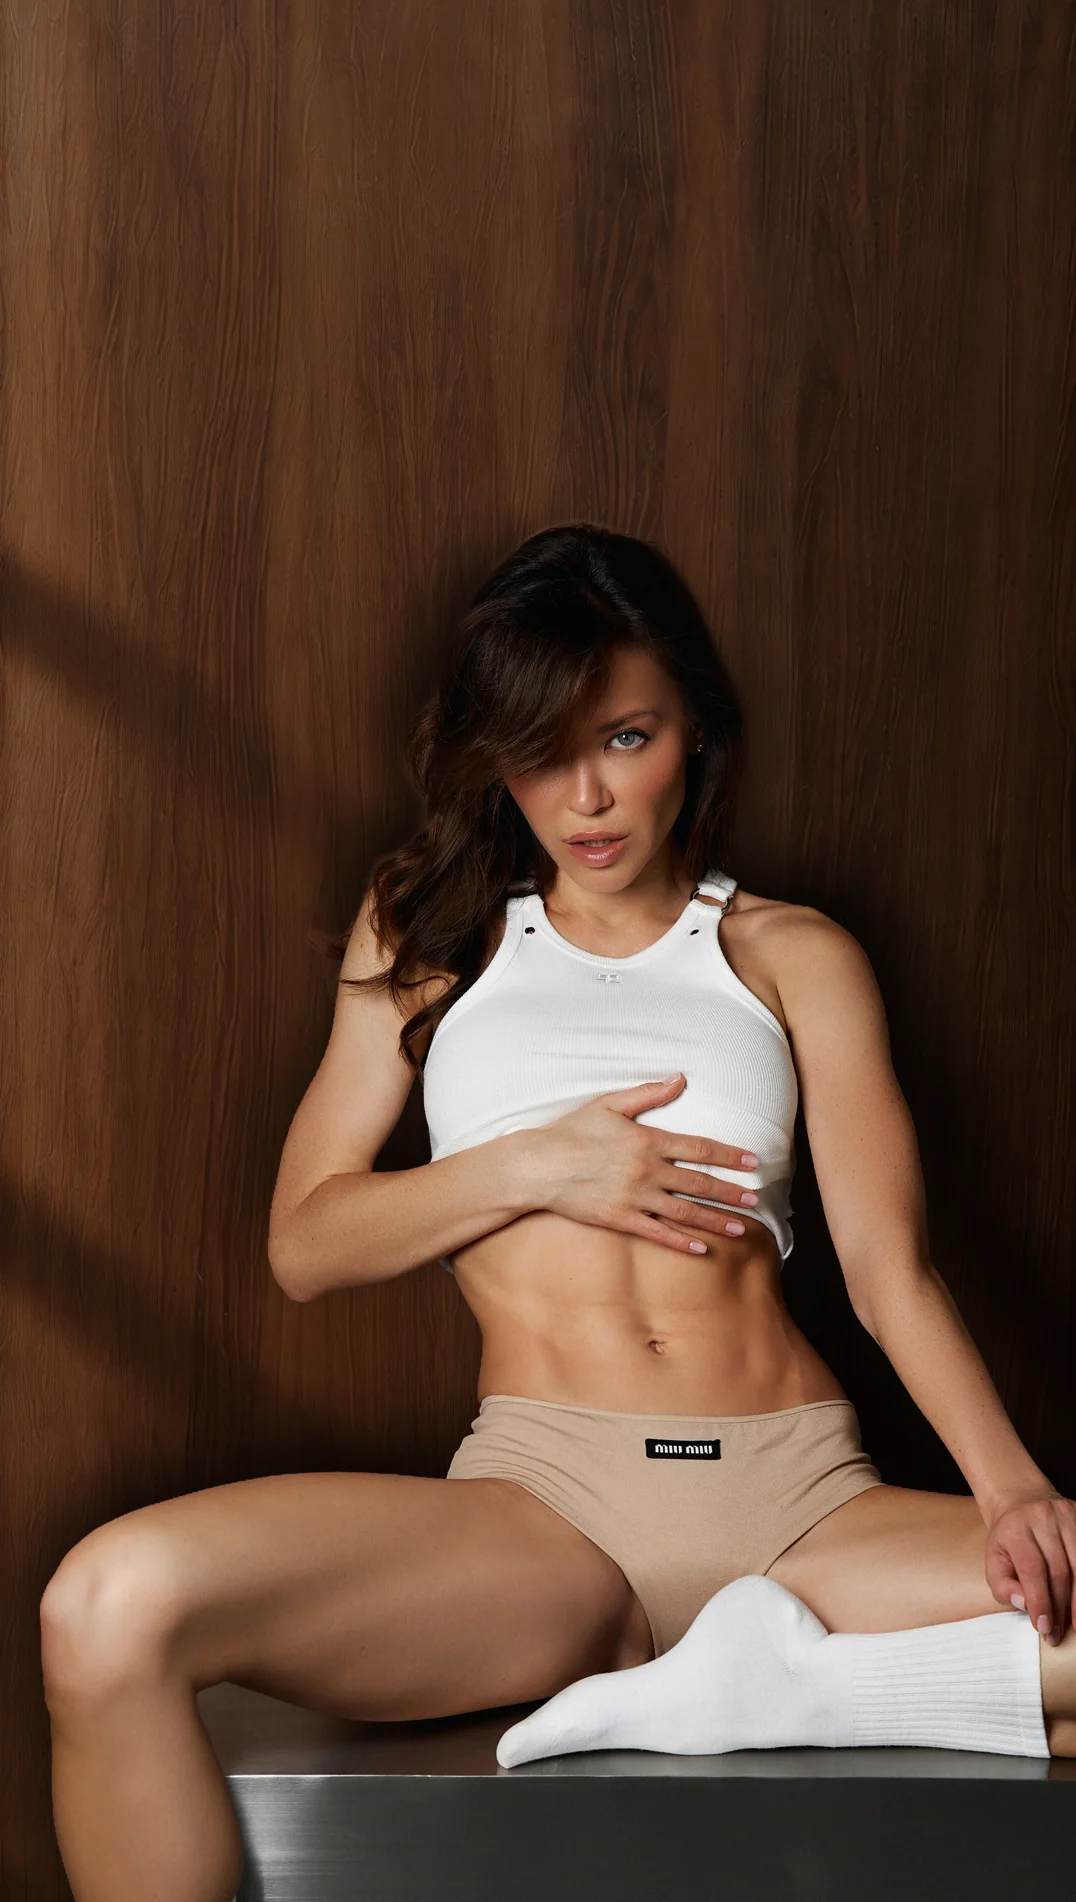
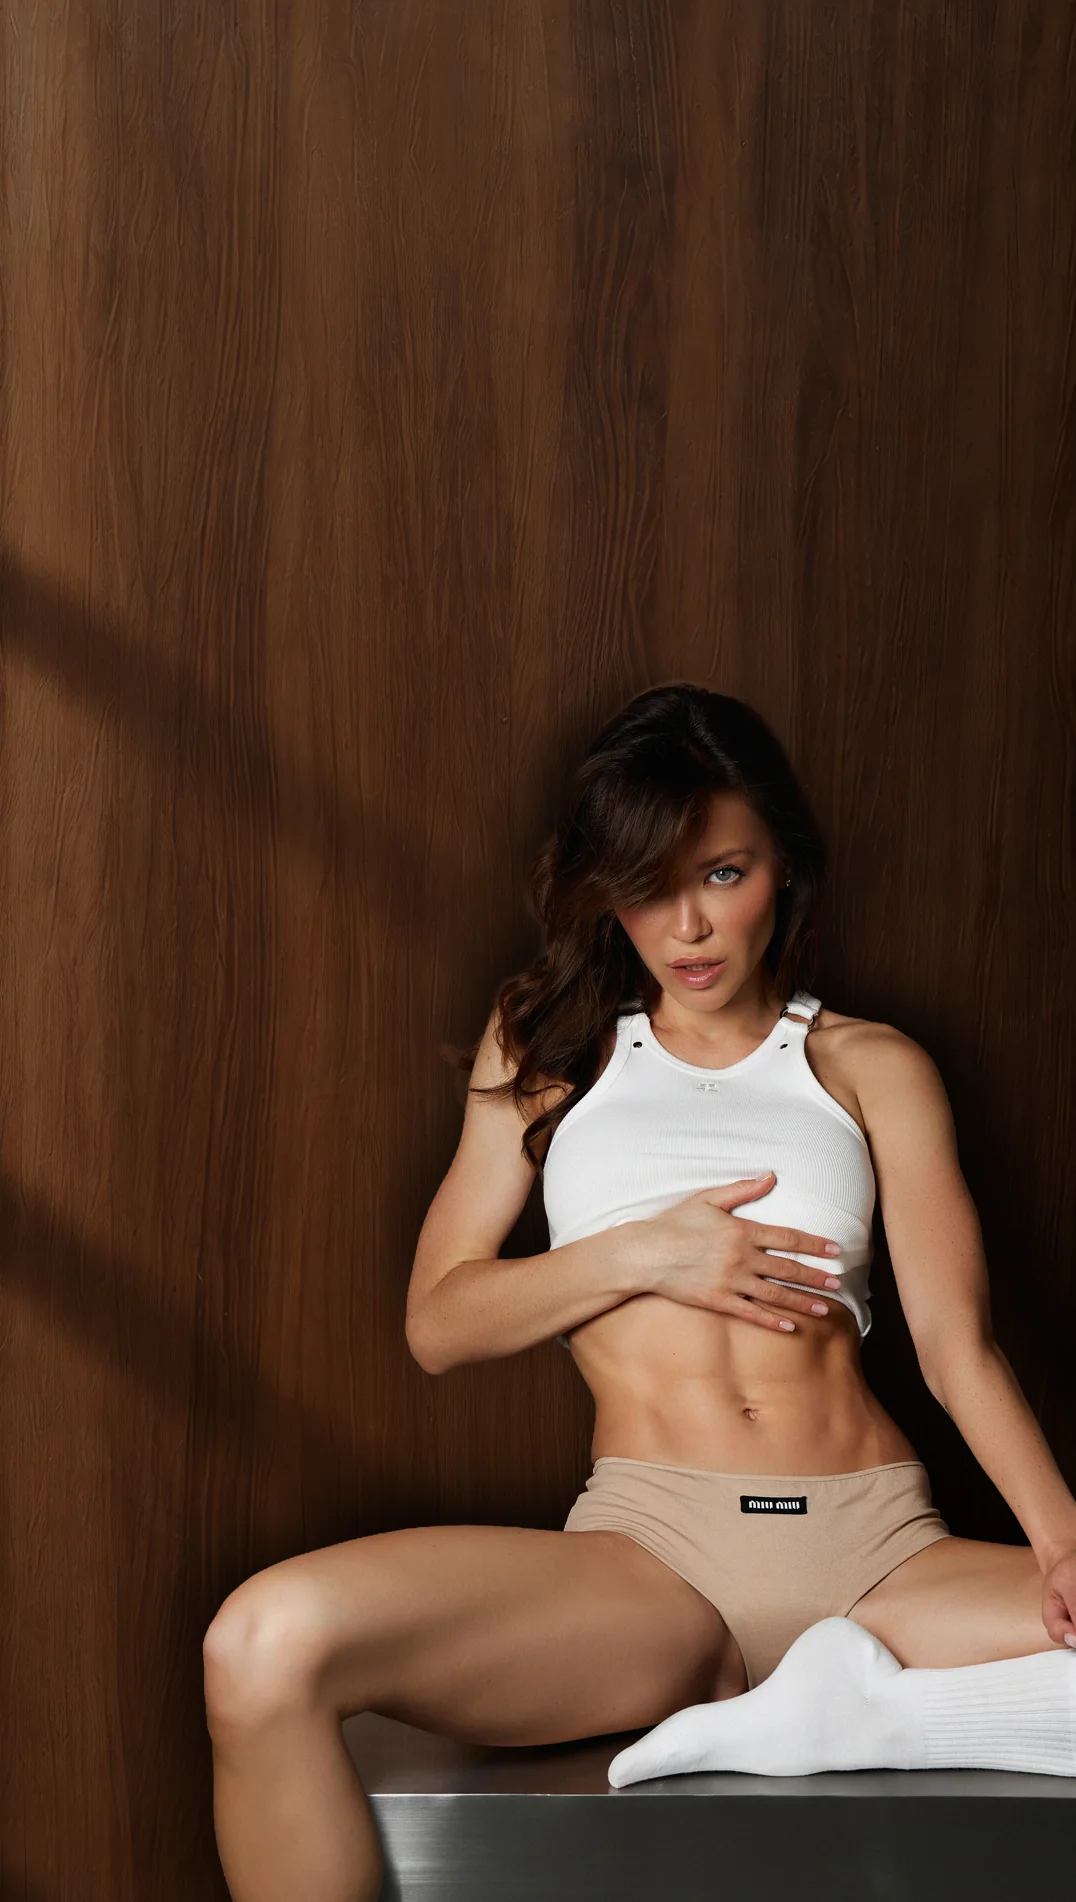
Refine mobile hero: unified heading size, tighter spacing, smaller bottom row
- Update mobile hero background to the new photo (model smaller, more
  headroom baked in); compress to hero-mobile-bg.webp, drop the raw
  background1mobilenew.png upload
- Remove the scale(1.35) crop trick now that the new photo already clears
  the headline without it; retune horizontal background-position
- Unify "See Results" and "14 Days." to one font size (previously the
  accent was 1.35em larger) and tighten the line-height between them ~30%
- Shorten the hero description to "20-min workouts. Nutrition. Real
  support. Everything you need in one membership." so it wraps to 2 lines
  instead of 3
- Halve the mobile vertical spacing between heading / description / CTA
  button
- Scale the feature-icons row and ratings row down ~25% on mobile and
  tighten their top padding/margins so they sit compact near the bottom
- All changes scoped to the existing max-width:1023px mobile block;
  desktop hero verified unaffected at 1440x900

diff --git a/style.css b/style.css
@@ -349,9 +349,7 @@ body:has(#mobileMenuOverlay.visible) .topbar .topbar-link{ color:var(--ink-soft)
   inset:0;
   background-image:url(images/hero-mobile-bg.webp);
   background-size:cover;
-  background-position:61% top;
-  transform:scale(1.35);
-  transform-origin:top center;
+  background-position:68% top;
 }
 
 .hero-layout{
@@ -489,6 +487,25 @@ body:has(#mobileMenuOverlay.visible) .topbar .topbar-link{ color:var(--ink-soft)
   .hero-features{ margin-top:auto; width:100%; }
   .hero-stats{ justify-content:center; width:100%; }
   .hero-scroll{ display:none; }
+  .hero-results{ font-size:clamp(40px,10.6vw,61px); line-height:0.76; margin-bottom:8px; }
+  .hero-accent{ font-size:1em; }
+  .hero-lead{ margin-bottom:13px; }
+  .hero-features{
+    margin-top:auto;
+    padding-top:14px;
+    gap:0;
+  }
+  .hero-feature{ font-size:8.25px; gap:6px; }
+  .hero-feature svg{ width:16.5px; height:16.5px; }
+  .hero-stats{
+    gap:10.5px;
+    margin-top:16px;
+    padding-top:14px;
+  }
+  .hero-avatar{ width:28.5px; height:28.5px; }
+  .hero-stat-top{ font-size:12px; gap:4.5px; }
+  .hero-stars{ font-size:10.5px; }
+  .hero-stat-label{ font-size:8.6px; }
 }
 
 /* ============ marquee strip ============ */

diff --git a/index.html b/index.html
@@ -86,7 +86,7 @@
     <div class="hero-layout">
       <div class="hero-inner">
         <h1 class="hero-results">See Results<br>in <span class="hero-accent">14 Days.</span></h1>
-        <p class="hero-lead">20-minute workouts, nutrition plans and expert support - everything you need to transform your body.</p>
+        <p class="hero-lead">20-min workouts. Nutrition. Real support. Everything you need in one membership.</p>
 
         <div class="hero-cta-wrap">
           <a href="#signup" class="btn btn-pill btn-primary btn-lg hero-cta">
